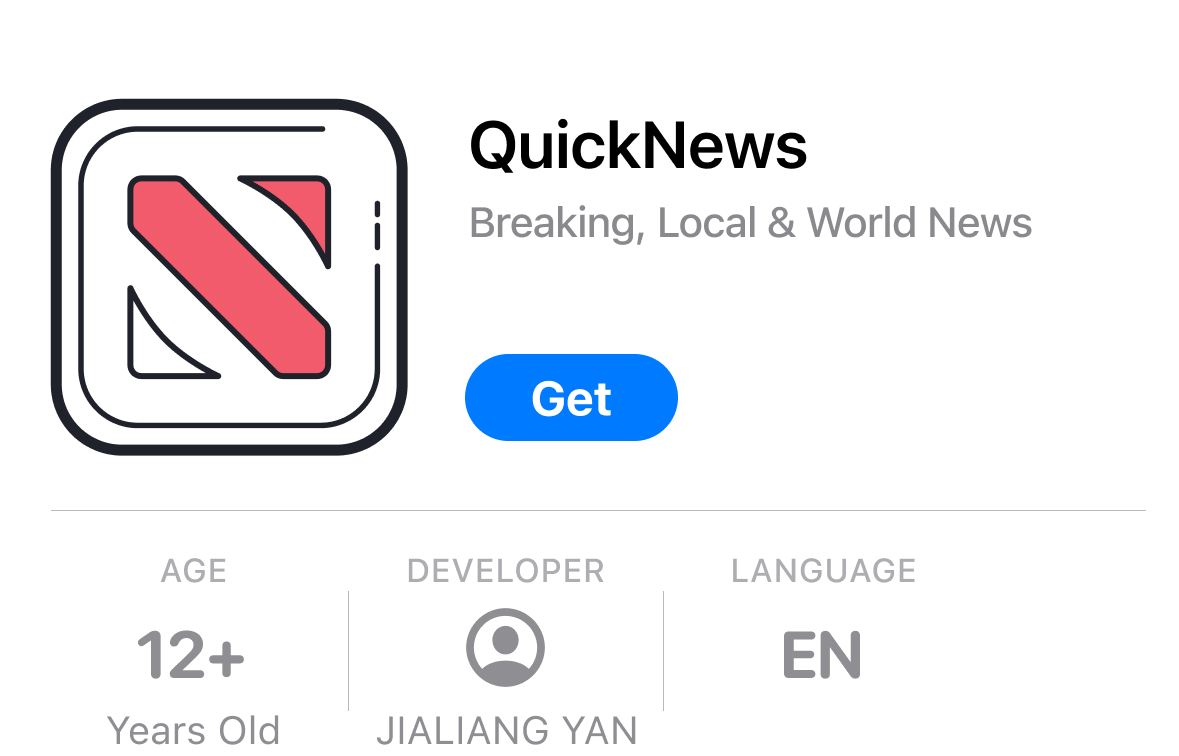
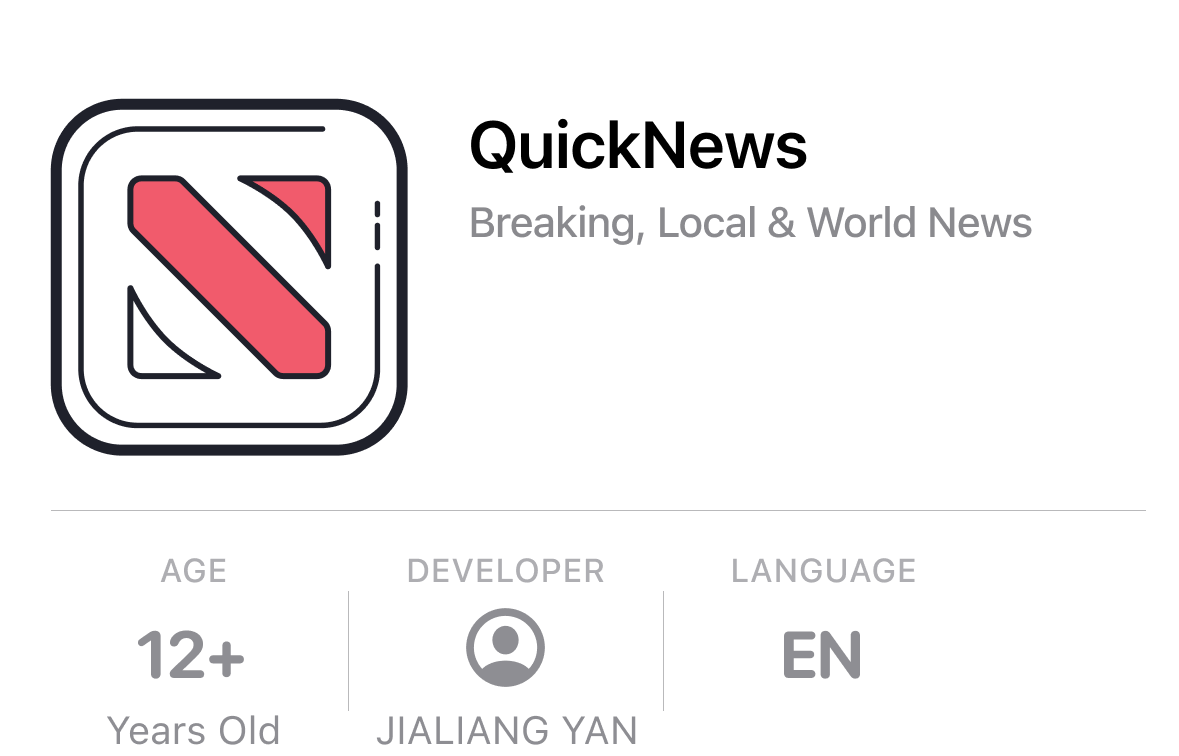
get btn

Changed region(s): [[0.3969, 0.4563, 0.5802, 0.6085]]

diff --git a/src/pages/Store/index.js b/src/pages/Store/index.js
@@ -35,18 +35,22 @@ export default function Store() {
 
   const images = [s1, s2, s3]
   const [more, openMore] = useState(false)
+  const [get, setGet] = useState(false)
   const description = more
     ? "QuickNews helps you discover balanced, unbiased stories -- for free. Connect with the world around you through editor curation and state-of-the-art algorithms. Whether it's politics, local coverage, sports, or entertainment, felling good about being informed has never been easier."
     : 'QuickNews helps you discover balanced, unbiased stories -- for free. Connect with the world around you through editor curation and state-of-the-art '
-  const btn = 'Get'
+  const btn = get ? 'Open' : 'Get'
+  const getApp = () => {}
 
   return (
     <div className={styles.main} ref={storeToapp}>
       {/* Store Page */}
       <div className={`${styles.store} store`}>
-        <div>
-          <img src={up} className={styles.up} />
-          <button>{btn}</button>
+        <div className={styles.up}>
+          <img src={up} className={styles.upImg} />
+          <button className={styles.btn} onClick={getApp}>
+            {btn}
+          </button>
         </div>
 
         <Slide images={images} />

diff --git a/src/pages/Store/index.module.css b/src/pages/Store/index.module.css
@@ -21,8 +21,32 @@
 }
 
 .up {
-  width: 100%;
+  position: relative;
   margin-bottom: 26px;
+}
+
+.upImg {
+  position: relative;
+  width: 100%;
+}
+
+.btn {
+  position: absolute;
+  top: 49%;
+  left: 39%;
+  z-index: 1;
+
+  background-color: #007aff;
+  border: none;
+  width: 71px;
+  height: 29px;
+  border-radius: 100px;
+
+  color: white;
+  font-size: 16px;
+  font-weight: bold;
+  text-align: center;
+  line-height: 29px;
 }
 
 .down {
